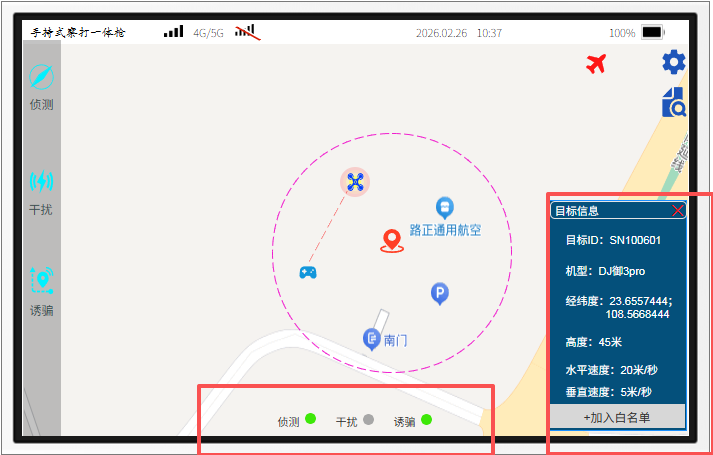
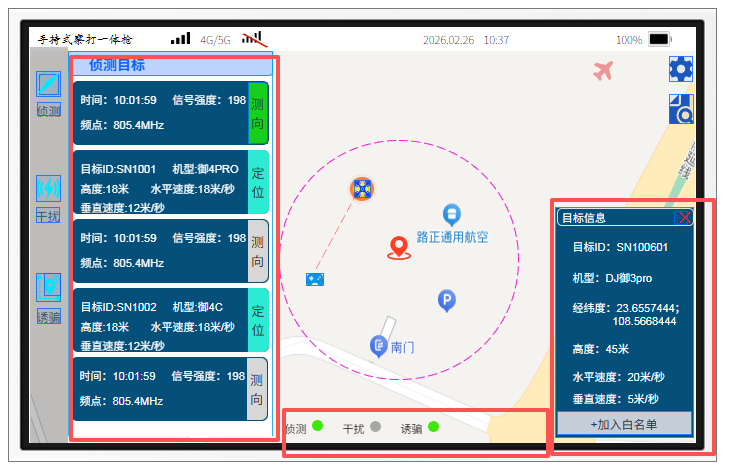
refactor: 优化UI布局以符合原型设计要求

diff --git a/frontend/src/views/Main.vue b/frontend/src/views/Main.vue
@@ -44,49 +44,53 @@
             :class="['target-item', { selected: selectedTargetId === target.id, 'button-active': target.buttonActive }]"
             @click="selectTarget(target)"
           >
-            <div class="target-info">
-              <!-- 上半组：实时侦测参数 -->
-              <div class="target-param-row">
-                <span class="param-label">时间:</span>
-                <span class="param-value">{{ target.time }}</span>
-                <span class="param-label" style="margin-left: 15px;">信号强度:</span>
-                <span class="param-value">{{ target.signalStrength }}</span>
+            <!-- 上半部分：信号基础信息（深灰背景）+ 测向按钮 -->
+            <div :class="['target-section', 'signal-section', { 'section-active': target.buttonActive && target.buttonType === 'measure' }]">
+              <div class="section-content">
+                <div class="target-param-row">
+                  <span class="param-label">时间:</span>
+                  <span class="param-value">{{ target.time }}</span>
+                  <span class="param-label" style="margin-left: 15px;">信号强度:</span>
+                  <span class="param-value">{{ target.signalStrength }}</span>
+                </div>
+                <div class="target-param-row">
+                  <span class="param-label">频点:</span>
+                  <span class="param-value">{{ target.frequency }}</span>
+                </div>
               </div>
-              <div class="target-param-row">
-                <span class="param-label">频点:</span>
-                <span class="param-value">{{ target.frequency }}</span>
-              </div>
-              <!-- 下半组：无人机目标属性 -->
-              <div class="target-detail-row">
-                <span class="param-label">目标ID:</span>
-                <span class="param-value">{{ target.targetId }}</span>
-                <span class="param-label" style="margin-left: 10px;">机型:</span>
-                <span class="param-value">{{ target.model }}</span>
-              </div>
-              <div class="target-detail-row">
-                <span class="param-label">高度:</span>
-                <span class="param-value">{{ target.altitude }}米</span>
-                <span class="param-label" style="margin-left: 10px;">水平速度:</span>
-                <span class="param-value">{{ target.horizontalSpeed }}米/秒</span>
-              </div>
-              <div class="target-detail-row">
-                <span class="param-label">垂直速度:</span>
-                <span class="param-value">{{ target.verticalSpeed }}米/秒</span>
-              </div>
-            </div>
-            <div class="action-buttons">
-              <!-- 根据buttonType只显示一个按钮 -->
               <button
-                v-if="target.buttonType === 'measure'"
-                :class="['measure-btn', 'measure-green']"
-                @click.stop="toggleButton(target)"
+                class="section-btn measure-btn"
+                :class="{ 'btn-active': target.buttonActive && target.buttonType === 'measure' }"
+                @click.stop="toggleButton(target, 'measure')"
               >
                 测向
               </button>
+            </div>
+
+            <!-- 下半部分：目标属性信息（浅灰背景）+ 定位按钮 -->
+            <div :class="['target-section', 'target-section', { 'section-active': target.buttonActive && target.buttonType === 'locate' }]">
+              <div class="section-content">
+                <div class="target-detail-row">
+                  <span class="param-label">目标ID:</span>
+                  <span class="param-value">{{ target.targetId }}</span>
+                  <span class="param-label" style="margin-left: 10px;">机型:</span>
+                  <span class="param-value">{{ target.model }}</span>
+                </div>
+                <div class="target-detail-row">
+                  <span class="param-label">高度:</span>
+                  <span class="param-value">{{ target.altitude }}米</span>
+                  <span class="param-label" style="margin-left: 10px;">水平速度:</span>
+                  <span class="param-value">{{ target.horizontalSpeed }}米/秒</span>
+                </div>
+                <div class="target-detail-row">
+                  <span class="param-label">垂直速度:</span>
+                  <span class="param-value">{{ target.verticalSpeed }}米/秒</span>
+                </div>
+              </div>
               <button
-                v-else
-                :class="['measure-btn', 'locate-blue']"
-                @click.stop="toggleButton(target)"
+                class="section-btn locate-btn"
+                :class="{ 'btn-active': target.buttonActive && target.buttonType === 'locate' }"
+                @click.stop="toggleButton(target, 'locate')"
               >
                 定位
               </button>
@@ -185,23 +189,22 @@
       </div>
     </div>
 
-    <!-- 底部设备状态栏 -->
+    <!-- 底部设备状态栏 - 居中显示，透明背景 -->
     <div class="bottom-bar">
-      <div class="status-warning">
-        这里显示的是设备工作状态, 不可点击交互操作
-      </div>
-      <div class="device-status-items">
-        <div class="device-status-item">
-          <div :class="['status-indicator', deviceStatus.detect.active ? 'active' : 'inactive']"></div>
-          <span class="status-label">侦测</span>
-        </div>
-        <div class="device-status-item">
-          <div :class="['status-indicator', deviceStatus.interfere.active ? 'active' : 'inactive']"></div>
-          <span class="status-label">干扰</span>
-        </div>
-        <div class="device-status-item">
-          <div :class="['status-indicator', deviceStatus.decoy.active ? 'active' : 'inactive']"></div>
-          <span class="status-label">诱骗</span>
+      <div class="device-status-container">
+        <div class="device-status-items">
+          <div class="device-status-item">
+            <div :class="['status-indicator', deviceStatus.detect.active ? 'active' : 'inactive']"></div>
+            <span class="status-label">侦测</span>
+          </div>
+          <div class="device-status-item">
+            <div :class="['status-indicator', deviceStatus.interfere.active ? 'active' : 'inactive']"></div>
+            <span class="status-label">干扰</span>
+          </div>
+          <div class="device-status-item">
+            <div :class="['status-indicator', deviceStatus.decoy.active ? 'active' : 'inactive']"></div>
+            <span class="status-label">诱骗</span>
+          </div>
         </div>
       </div>
     </div>
@@ -326,8 +329,9 @@ const updateTime = () => {
 let timeInterval: number;
 
 // 切换按钮激活状态
-const toggleButton = (target: any) => {
-  // 切换该目标的按钮状态
+const toggleButton = (target: any, buttonType: 'measure' | 'locate') => {
+  // 设置目标的按钮类型和激活状态
+  target.buttonType = buttonType;
   target.buttonActive = !target.buttonActive;
 };
 
@@ -556,9 +560,13 @@ onUnmounted(() => {
   color: #ffffff;
 }
 
-/* 按钮激活时的浅绿色背景 */
+/* 按钮激活时的浅绿色背景 - 对应部分激活 */
+.target-section.section-active {
+  background: #a5d6a7 !important; /* 浅绿色背景 */
+}
+
 .target-item.button-active {
-  background: #a5d6a7; /* 浅绿色背景 */
+  background: #a5d6a7; /* 整体激活时的浅绿色背景 */
 }
 
 .target-item.button-active:hover {
@@ -570,11 +578,76 @@ onUnmounted(() => {
   color: #000000;
 }
 
-.target-info {
+/* 侦测项的两个部分 */
+.target-section {
+  display: flex;
+  flex-direction: row;
+  align-items: stretch;
+  padding: 10px 12px;
+  gap: 10px;
+}
+
+/* 上半部分：信号基础信息（深灰背景） */
+.signal-section {
+  background: #9e9e9e;
+  border-top-left-radius: 6px;
+  border-top-right-radius: 6px;
+  border-bottom: 1px solid #808080;
+}
+
+/* 下半部分：目标属性信息（浅灰背景） */
+.target-section {
+  background: #e0e0e0;
+  border-bottom-left-radius: 6px;
+  border-bottom-right-radius: 6px;
+}
+
+.section-content {
   flex: 1;
   display: flex;
   flex-direction: column;
   gap: 6px;
+}
+
+.section-btn {
+  color: #ffffff;
+  border: none;
+  padding: 8px 12px;
+  border-radius: 4px;
+  font-size: 11px;
+  font-weight: 500;
+  cursor: pointer;
+  transition: all 0.3s ease;
+  white-space: nowrap;
+  min-width: 50px;
+  height: auto;
+  align-self: center;
+}
+
+.section-btn.measure-btn {
+  background: #4caf50;
+}
+
+.section-btn.measure-btn:hover {
+  background: #388e3c;
+}
+
+.section-btn.measure-btn.btn-active {
+  background: #66bb6a;
+  box-shadow: 0 0 8px rgba(76, 175, 80, 0.6);
+}
+
+.section-btn.locate-btn {
+  background: #1565c0;
+}
+
+.section-btn.locate-btn:hover {
+  background: #0d47a1;
+}
+
+.section-btn.locate-btn.btn-active {
+  background: #42a5f5;
+  box-shadow: 0 0 8px rgba(21, 101, 192, 0.6);
 }
 
 .target-param-row {
@@ -599,41 +672,6 @@ onUnmounted(() => {
   color: #000000;
   font-size: 12px;
   font-weight: 600;
-}
-
-.action-buttons {
-  display: flex;
-  flex-direction: column;
-  gap: 6px;
-}
-
-.measure-btn {
-  color: #ffffff;
-  border: none;
-  padding: 8px 12px;
-  border-radius: 4px;
-  font-size: 11px;
-  font-weight: 500;
-  cursor: pointer;
-  transition: all 0.3s ease;
-  white-space: nowrap;
-  min-width: 50px;
-}
-
-.measure-btn.measure-green {
-  background: #4caf50;
-}
-
-.measure-btn.measure-green:hover {
-  background: #388e3c;
-}
-
-.measure-btn.locate-blue {
-  background: #1565c0;
-}
-
-.measure-btn.locate-blue:hover {
-  background: #0d47a1;
 }
 
 /* 地图区域 */
@@ -835,13 +873,13 @@ onUnmounted(() => {
   box-shadow: 0 4px 12px rgba(0, 0, 0, 0.15);
 }
 
-/* 右下角目标信息面板 - 滑动效果 */
+/* 右下角目标信息面板 - 滑动效果，透明背景 */
 .target-panel-bottom {
   position: fixed;
   right: 0;
   bottom: 80px;
   width: 350px;
-  background: #ffffff;
+  background: rgba(255, 255, 255, 0.95); /* 半透明白色背景 */
   border: 2px solid #666666;
   border-right: none;
   box-shadow: 0 4px 20px rgba(0, 0, 0, 0.3);
@@ -892,13 +930,14 @@ onUnmounted(() => {
 
 .panel-content {
   padding: 16px;
+  background: rgba(240, 240, 240, 0.9); /* 半透明浅灰色背景 */
 }
 
 .info-row {
   display: flex;
   justify-content: space-between;
   padding: 10px 0;
-  border-bottom: 1px solid #f0f0f0;
+  border-bottom: 1px solid rgba(240, 240, 240, 0.5);
 }
 
 .info-row:last-child {
@@ -918,17 +957,18 @@ onUnmounted(() => {
 }
 
 .panel-footer {
-  padding: 12px 16px;
-  background: #f0f0f0;
+  padding: 0; /* 去掉padding */
+  background: rgba(240, 240, 240, 0.9); /* 半透明浅灰色背景 */
   display: flex;
-  justify-content: center;
+  justify-content: stretch; /* 填充对齐 */
 }
 
 .whitelist-btn {
-  padding: 10px 20px;
+  width: 100%; /* 通栏按钮 */
+  padding: 12px 20px;
   background: #cccccc;
   border: none;
-  border-radius: 6px;
+  border-radius: 0; /* 无圆角 */
   color: #333333;
   font-size: 13px;
   font-weight: 500;
@@ -936,6 +976,7 @@ onUnmounted(() => {
   transition: all 0.3s ease;
   display: flex;
   align-items: center;
+  justify-content: center;
   gap: 6px;
 }
 
@@ -943,19 +984,25 @@ onUnmounted(() => {
   background: #bbbbbb;
 }
 
-/* 底部设备状态栏 */
+/* 底部设备状态栏 - 居中显示，透明背景 */
 .bottom-bar {
+  position: fixed;
+  bottom: 0;
+  left: 0;
+  right: 0;
   height: 60px;
-  background: #e0e0e0;
-  border-top: 2px solid #cccccc;
+  background: transparent; /* 透明背景 */
   display: flex;
   align-items: center;
-  justify-content: flex-end; /* 改为右对齐 */
-  padding: 0 20px;
+  justify-content: center; /* 居中显示 */
+  z-index: 50;
 }
 
-.status-warning {
-  display: none; /* 隐藏提示文字 */
+.device-status-container {
+  background: rgba(224, 224, 224, 0.8); /* 半透明灰色背景 */
+  padding: 8px 30px;
+  border-radius: 30px;
+  border: 1px solid rgba(200, 200, 200, 0.8);
 }
 
 .device-status-items {
